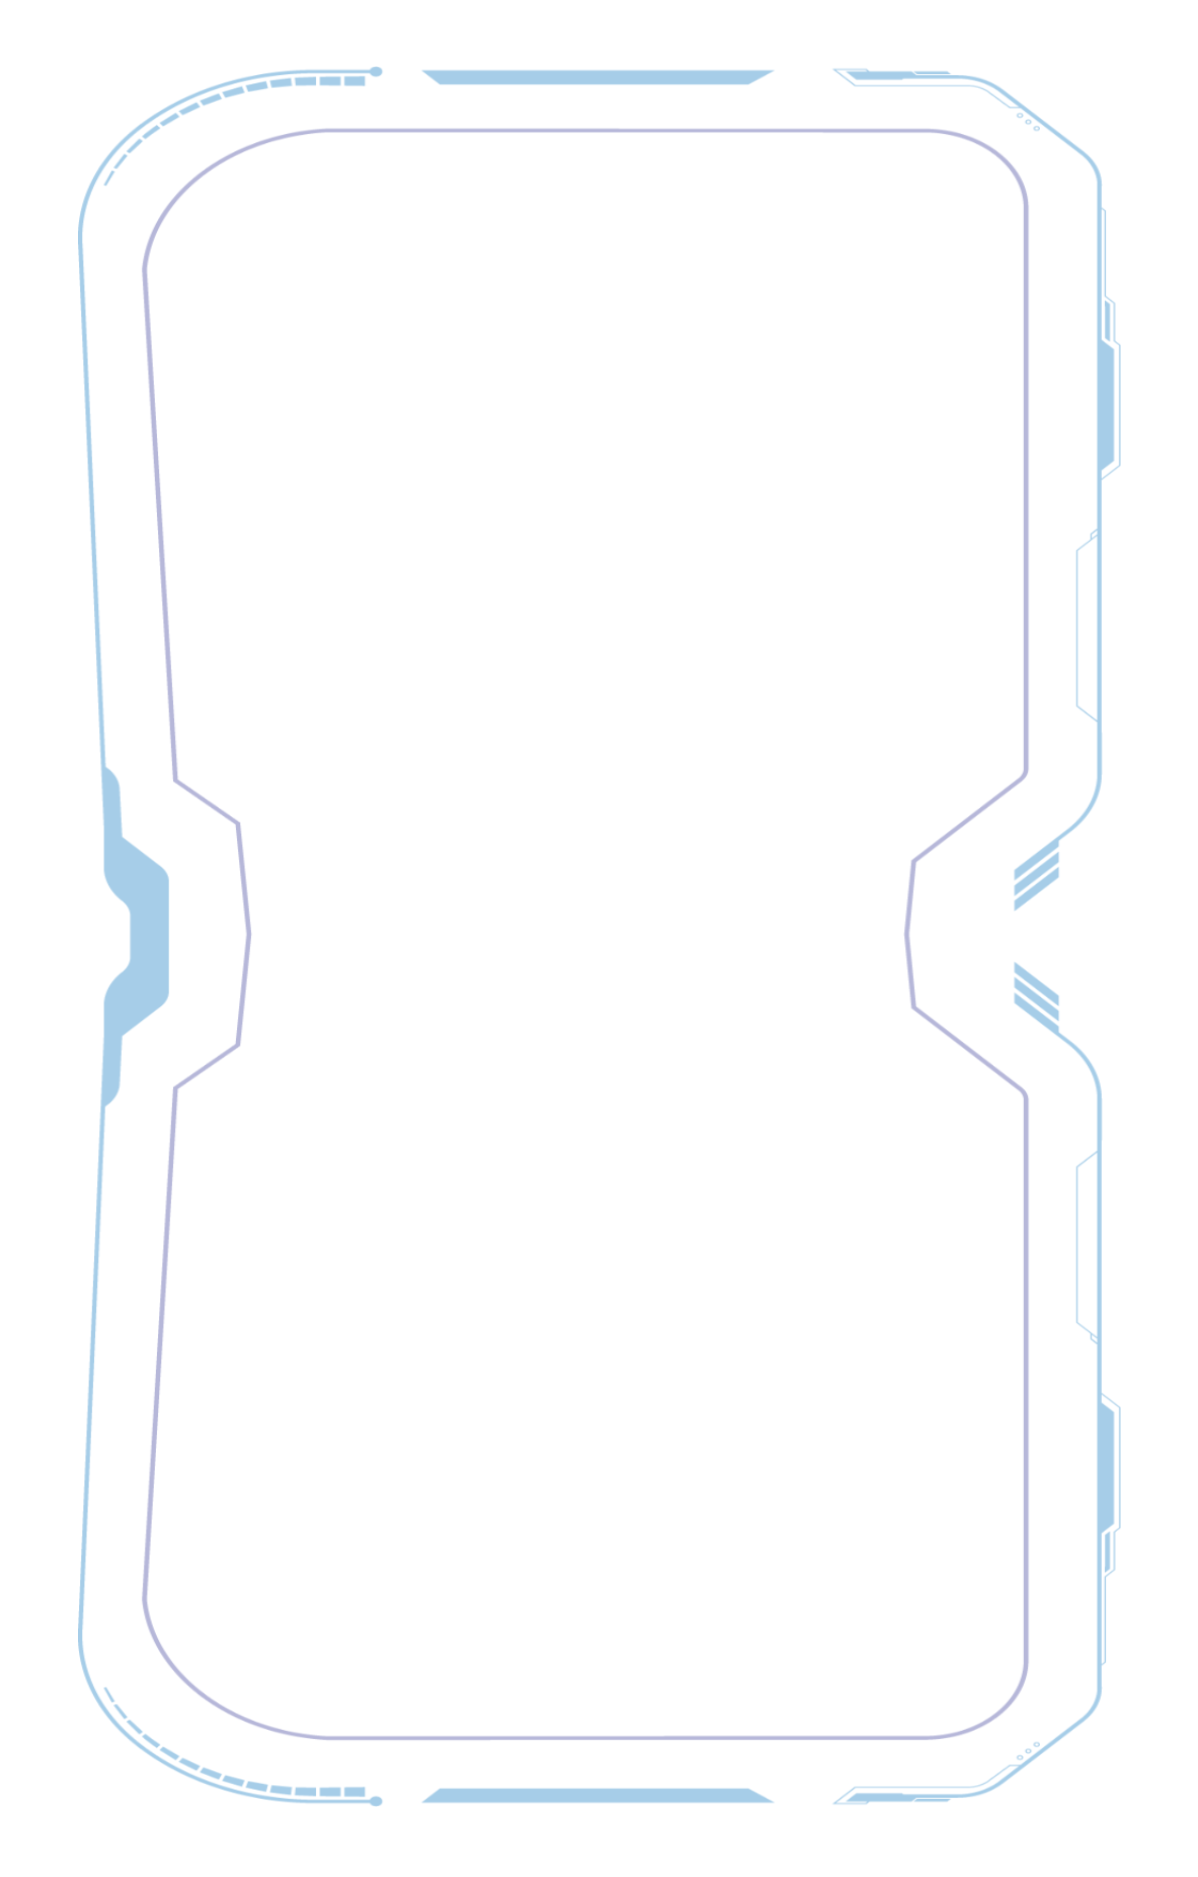
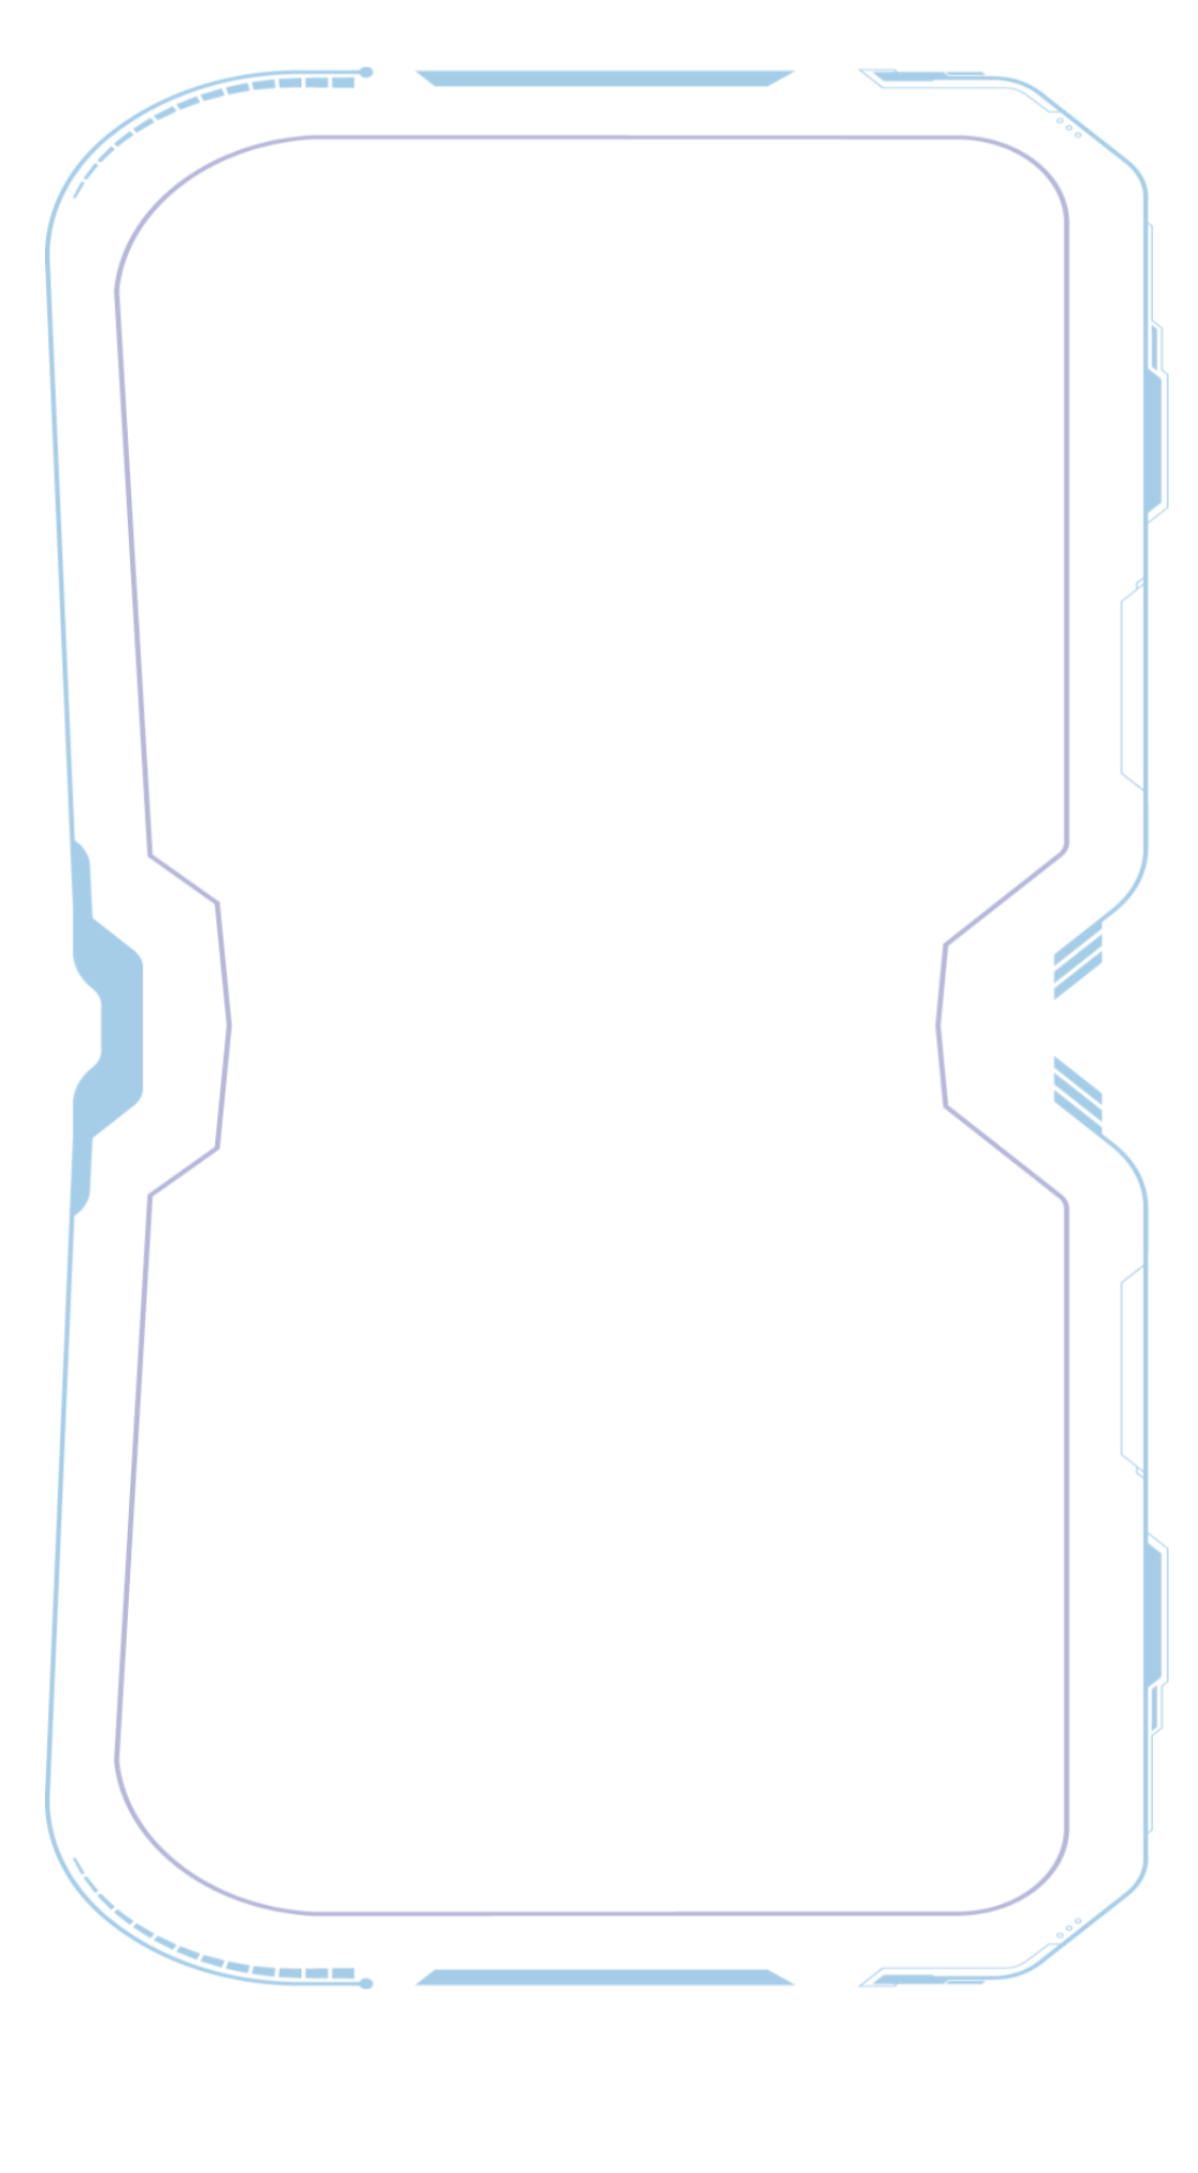
img size changed

diff --git a/stylemobile.css b/stylemobile.css
@@ -383,20 +383,37 @@
     font-size: 80%;
     margin-top: 21px;
 }
-}
 .countdown-container p {
     padding: 0px 15px 0px 15px;
 }
+
 .big-text {
     font-size: 1rem;
     margin: 0.5rem 0.5rem;
 }
+
 .footer img {
     padding: 20px;
     margin: 10px 30px;
 
 
 }
-.footer{
+
+.footer {
     flex-direction: column;
+}
+
+#img15 {
+    display: none;
+
+}
+
+#img16 {
+    display: block;
+
+}
+.intro img{
+    width: 100%;
+    height: 100%;
+}
 }

diff --git a/index.html b/index.html
@@ -56,6 +56,7 @@
                       <div class="intro">
                         <div class="bg13" >
                             <img id="img15" src="image/bg14.png">
+                            <img id="img16" src="image/bg15.png">
                         </div>
                         <div class="bg13-content">
                             

diff --git a/style.css b/style.css
@@ -1275,3 +1275,9 @@ height: 70px;
 .footer p{
   color: #fff;
 }
+#img15{
+  display: block;
+}
+#img16{
+  display: none;
+}
